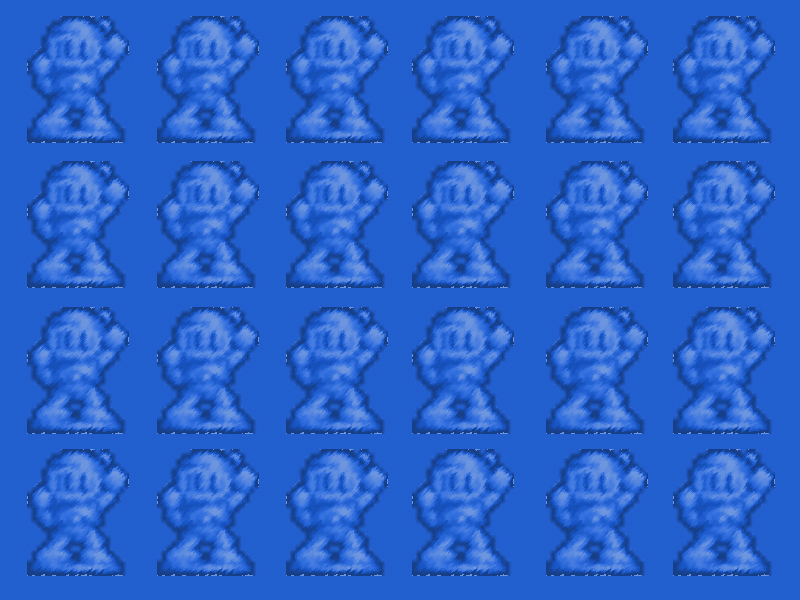
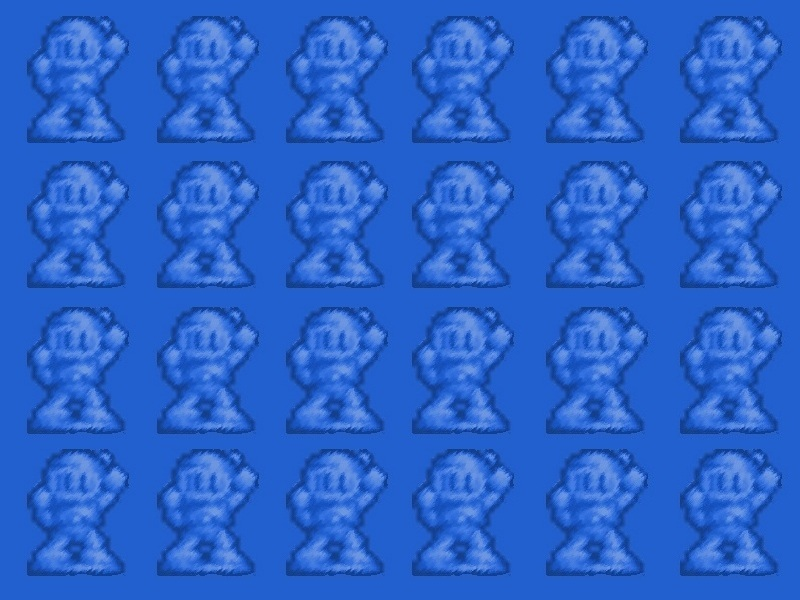
Alterado sprites e animações de flame

diff --git a/BB/src/org/bb/game/player/Flame.java b/BB/src/org/bb/game/player/Flame.java
@@ -5,7 +5,10 @@ import org.bb.game.Level;
 import org.bb.game.MapObjects;
 import org.bb.game.items.Items;
 import org.newdawn.slick.Animation;
+import org.newdawn.slick.Image;
 import org.newdawn.slick.SlickException;
+import org.newdawn.slick.SpriteSheet;
+
 import java.awt.geom.Rectangle2D;
 
 public class Flame extends Actors {
@@ -16,28 +19,50 @@ public class Flame extends Actors {
     private int portalX;
     private int portalY;
     private int dragonTimer;
+    private int range;
 
    
-    public Flame(Direction direction) throws SlickException {
-//        switch (direction){
-//            case NORTH: 
-//            animation = new Animation(Anim.getAnimation("resources/actors/flame_n", 4),250);
-//                break;
-//            case SOUTH: 
-//                animation = new Animation(Anim.getAnimation("resources/actors/flame_s", 4),250);
-//                break;
-//            case EAST:
-//                animation = new Animation(Anim.getAnimation("resources/actors/flame_e", 4),250);
-//                break;
-//            case WEST:
-//                animation = new Animation(Anim.getAnimation("resources/actors/flame_w", 4),250);
-//                break;
-//        }
-        if (direction == Direction.NORTH || direction == Direction.SOUTH) {
-            animation = new Animation(Anim.getAnimation("resources/actors/flame_ns", 1), 20);
-        } else {
-            animation = new Animation(Anim.getAnimation("resources/actors/flame_we", 1), 20);
+    public Flame(Direction direction, int range) throws SlickException {
+    	this.range=range;
+    	SpriteSheet flame = new SpriteSheet("resources/actors/flame.png", 32, 32);
+		Image[] flame_e = null;
+		Image[] flame_w = null;
+		Image[] flame_n = null;
+		Image[] flame_s = null;
+    	if(range == 0){
+    		flame_e = Anim.getSpriteSheetAnimation(flame, 8, 1);
+    		flame_w = Anim.getSpriteSheetAnimation(flame, 8, 1);
+    		flame_n = Anim.getSpriteSheetAnimation(flame, 8, 3);
+    		flame_s = Anim.getSpriteSheetAnimation(flame, 8, 3);
+    	}else{
+    		flame_e = Anim.getSpriteSheetAnimation(flame, 8, 2);
+    		flame_w = Anim.getSpriteSheetAnimation(flame, 8, 2);
+    		flame_n = Anim.getSpriteSheetAnimation(flame, 8, 2);
+    		flame_s = Anim.getSpriteSheetAnimation(flame, 8, 2);    		
+    	}
+    	for(int i=0; i < 8; i++){
+    		flame_w[i] = flame_w[i].getFlippedCopy(true, false);
+    		flame_s[i] = flame_s[i].getFlippedCopy(false, true);
+    	}
+        switch (direction){
+            case NORTH: 
+            animation = new Animation(flame_n,250);
+                break;
+            case SOUTH: 
+                animation = new Animation(flame_s,250);
+                break;
+            case EAST:
+                animation = new Animation(flame_e,250);
+                break;
+            case WEST:
+                animation = new Animation(flame_w,250);
+                break;
         }
+//        if (direction == Direction.NORTH || direction == Direction.SOUTH) {
+//            animation = new Animation(Anim.getAnimation("resources/actors/flame_ns", 1), 20);
+//        } else {
+//            animation = new Animation(Anim.getAnimation("resources/actors/flame_we", 1), 20);
+//        }
         time = 50;
         dragonTimer = 0;
     }

diff --git a/BB/src/org/bb/game/player/Bombs.java b/BB/src/org/bb/game/player/Bombs.java
@@ -146,7 +146,7 @@ public class Bombs extends Actors {
                 for (int r = 0; r < range; r++) {
                     this.x += (16 + 32 * r);
                     if (!this.intersectWithWall()) {
-                        Flame flame = new Flame(Direction.EAST);
+                        Flame flame = new Flame(Direction.EAST, r);
                         flame.setPosition(oldX + 32 + 32 * r, oldY);
                         level.addToLevel(flame);
                     } else {
@@ -161,7 +161,7 @@ public class Bombs extends Actors {
                 for (int r = 0; r < range; r++) {
                     this.x -= (16 + 32 * r);
                     if (!this.intersectWithWall()) {
-                        Flame flame = new Flame(Direction.WEST);
+                        Flame flame = new Flame(Direction.WEST, r);
                         flame.setPosition(oldX - 32 - 32 * r, oldY);
                         level.addToLevel(flame);
                     } else {
@@ -176,7 +176,7 @@ public class Bombs extends Actors {
                 for (int r = 0; r < range; r++) {
                     this.y += (16 + 32 * r);
                     if (!this.intersectWithWall()) {
-                        Flame flame = new Flame(Direction.SOUTH);
+                        Flame flame = new Flame(Direction.SOUTH, r);
                         flame.setPosition(oldX, oldY + 32 + 32 * r);
                         level.addToLevel(flame);
                     } else {
@@ -191,7 +191,7 @@ public class Bombs extends Actors {
                 for (int r = 0; r < range; r++) {
                     this.y -= (16 + 32 * r);
                     if (!this.intersectWithWall()) {
-                        Flame flame = new Flame(Direction.NORTH);
+                        Flame flame = new Flame(Direction.NORTH, r);
                         flame.setPosition(oldX, oldY - 32 - 32 * r);
                         level.addToLevel(flame);
                     } else {

diff --git a/BB/src/org/bb/game/Game.java b/BB/src/org/bb/game/Game.java
@@ -172,8 +172,8 @@ public class Game extends BasicGame{
          
         
         gc.setMusicOn(true);
-        server = new ServerThread();
-		server.start();
+//        server = new ServerThread();
+//		server.start();
     }
 
     @SuppressWarnings("deprecation")
@@ -198,7 +198,7 @@ public class Game extends BasicGame{
         Input input = gc.getInput();
         if (input.isKeyDown(Input.KEY_ESCAPE)) {
         	mus.stopMusic();
-        	server.stop();
+//        	server.stop();
             gc.exit();
         }
         if (input.isKeyPressed(Input.KEY_P)) {
@@ -323,7 +323,7 @@ public class Game extends BasicGame{
         	mus = new MusicPlayer("resources/musics/level_hurry.wav", true);
         	mus.start();
         } 
-        server.setImage(this.i);
+//        server.setImage(this.i);
     }
 
     @Override

diff --git a/BB/src/org/bb/game/items/SpeedUp.java b/BB/src/org/bb/game/items/SpeedUp.java
@@ -3,12 +3,14 @@ package org.bb.game.items;
 import org.bb.game.Anim;
 import org.newdawn.slick.Animation;
 import org.newdawn.slick.SlickException;
+import org.newdawn.slick.SpriteSheet;
 
 public class SpeedUp extends Items{
     
     
     public SpeedUp() throws SlickException{
-        animation = new Animation(Anim.getAnimation("resources/items/speed", 1),20);
+    	SpriteSheet speed = new SpriteSheet("resources/items/customItens.png", 32, 32);
+        animation = new Animation(Anim.getSpriteSheetAnimation(speed, 4, 2),20);
     }
     
 }

diff --git a/BB/src/org/bb/game/items/RangeUp.java b/BB/src/org/bb/game/items/RangeUp.java
@@ -3,11 +3,13 @@ package org.bb.game.items;
 import org.bb.game.Anim;
 import org.newdawn.slick.Animation;
 import org.newdawn.slick.SlickException;
+import org.newdawn.slick.SpriteSheet;
 
 public class RangeUp extends Items{
     
     public RangeUp() throws SlickException{
-        animation = new Animation(Anim.getAnimation("resources/items/range", 1),20);
+    	SpriteSheet range = new SpriteSheet("resources/items/customItens.png", 32, 32);
+        animation = new Animation(Anim.getSpriteSheetAnimation(range, 4, 1),100);
     }
     
 }

diff --git a/BB/src/org/bb/game/items/BombsUp.java b/BB/src/org/bb/game/items/BombsUp.java
@@ -3,10 +3,12 @@ package org.bb.game.items;
 import org.bb.game.Anim;
 import org.newdawn.slick.Animation;
 import org.newdawn.slick.SlickException;
+import org.newdawn.slick.SpriteSheet;
 
 public class BombsUp extends Items{
     public BombsUp() throws SlickException{
-        animation = new Animation(Anim.getAnimation("resources/items/bomb", 1), 20);
+    	SpriteSheet bomb = new SpriteSheet("resources/items/customItens.png", 32, 32);
+        animation = new Animation(Anim.getSpriteSheetAnimation(bomb, 4, 0), 100);
     }
     
 }
